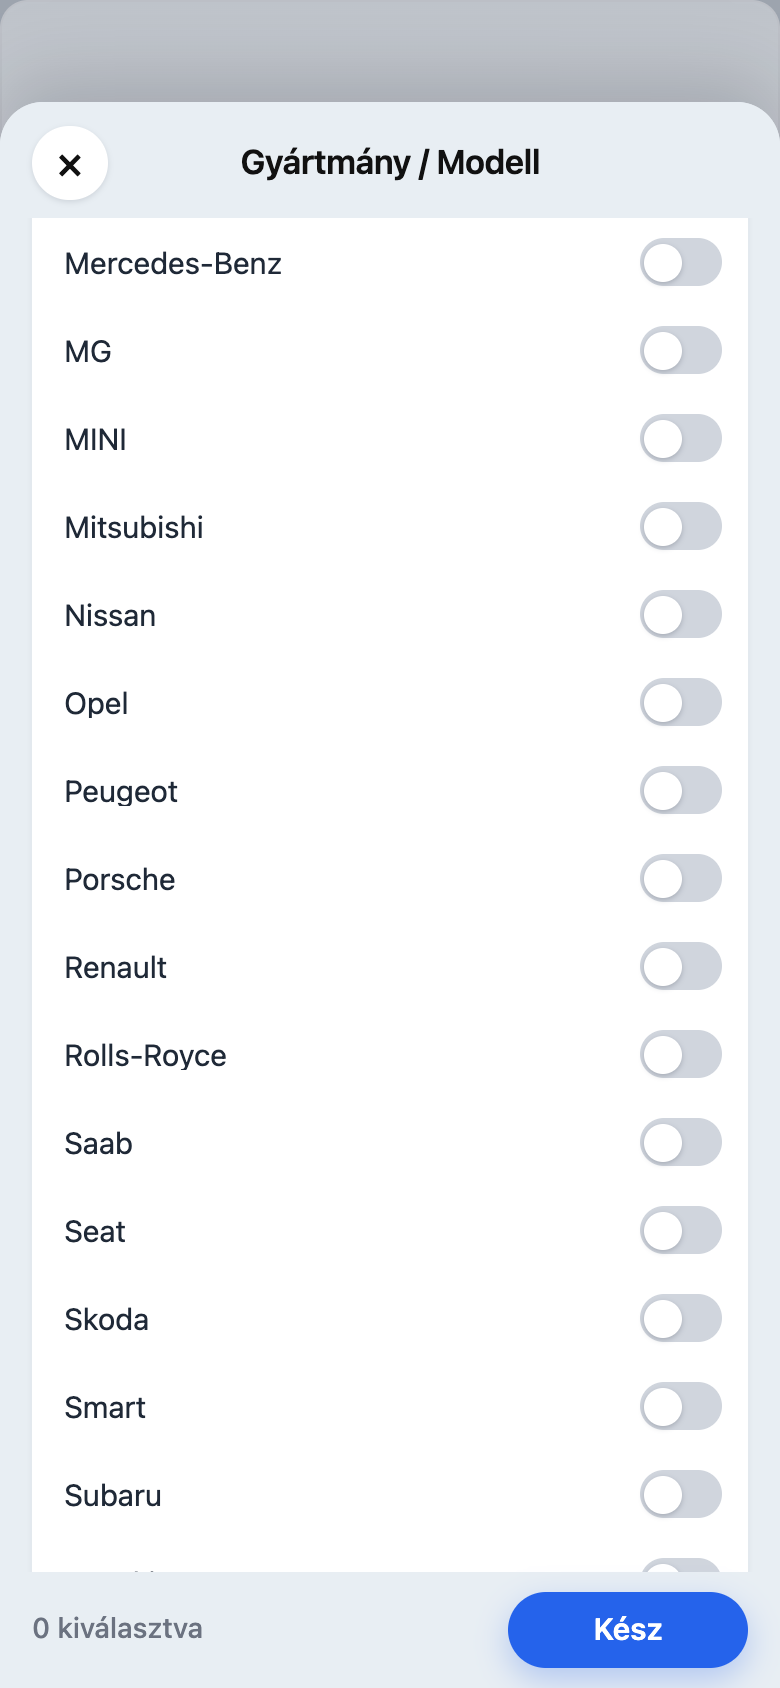
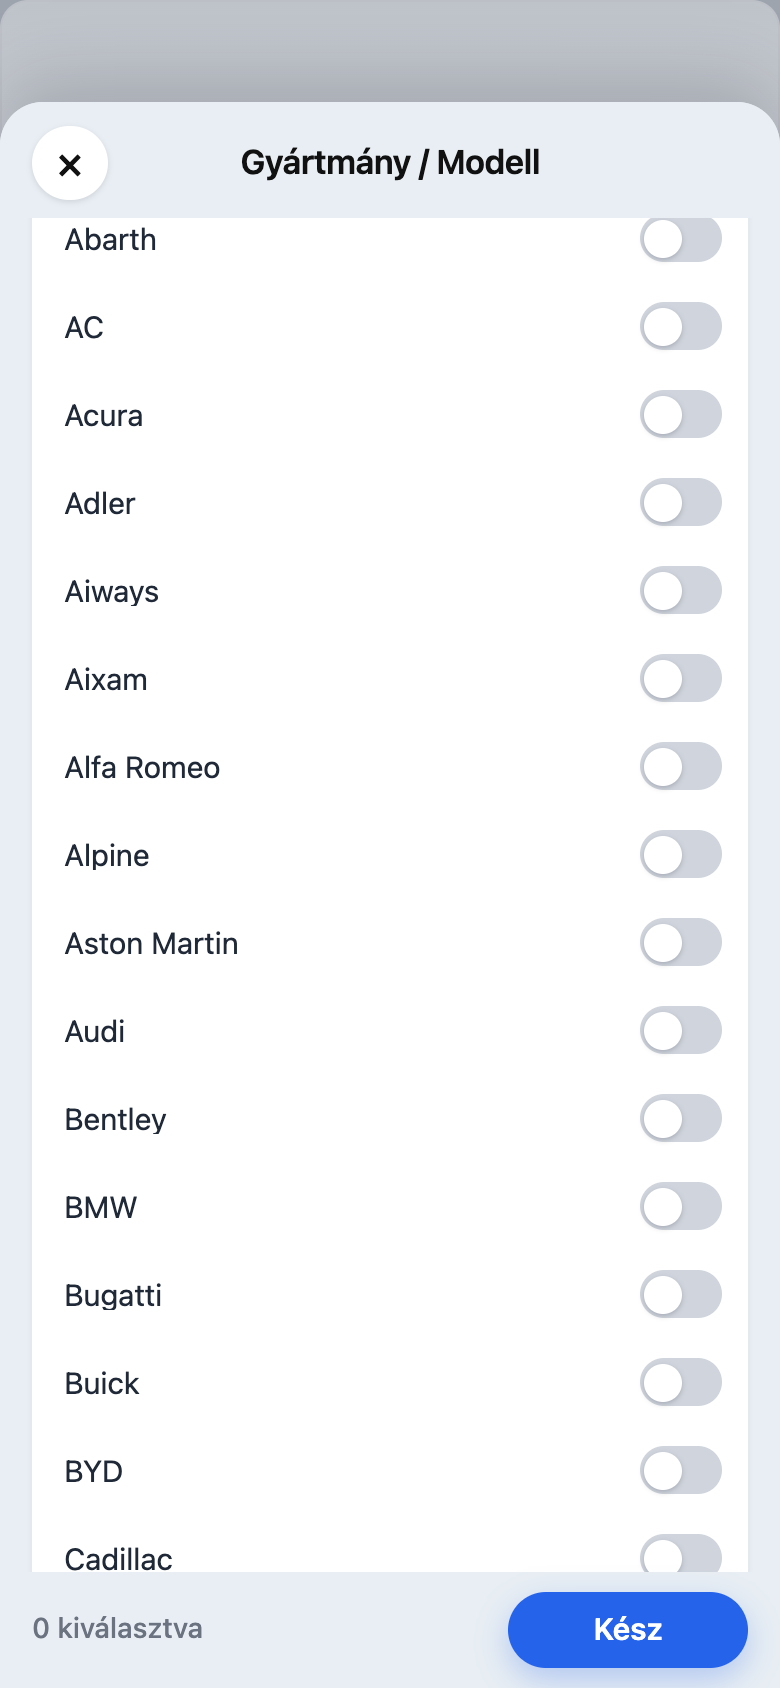
Slide brand sheet white card to the blue stage top.
Replace fixed scroll padding with a scroll-away spacer so the white list can reach under the title to the top of the blue panel.

diff --git a/public/js/ad-form-bm-pickers.js b/public/js/ad-form-bm-pickers.js
@@ -2380,7 +2380,7 @@ async function mountAdBrandModelCombined(form, catalog) {
   }
 
   const { fillWheel, setWheelValue, readWheel } = await import("./ingatlan-wheels.js?v=immoClearAll1");
-  const { openBrandModelCatalogSheet } = await import("./auto-drum-sheet.js?v=bmSheet7");
+  const { openBrandModelCatalogSheet } = await import("./auto-drum-sheet.js?v=bmSheet8");
   const { initDrumWheel, syncDrumWheelDisplay } = await import("./immo-drum-picker.js?v=immoClear1");
 
   const brands = [...(catalog?.gyartmanyok || [])].sort((a, b) =>
@@ -2543,7 +2543,7 @@ async function mountAdSelectDrum(select, {
   select.dataset.adBmDrum = "1";
 
   const { fillWheel, setWheelValue, readWheel } = await import("./ingatlan-wheels.js?v=immoClearAll1");
-  const { openStandaloneSwitchSheet, bindAutoDrumSheet } = await import("./auto-drum-sheet.js?v=bmSheet7");
+  const { openStandaloneSwitchSheet, bindAutoDrumSheet } = await import("./auto-drum-sheet.js?v=bmSheet8");
   const { initDrumWheel, syncDrumWheelDisplay } = await import("./immo-drum-picker.js?v=immoClear1");
 
   const wrap = document.createElement("div");
@@ -2762,7 +2762,7 @@ async function mountAdSplitYmDrum({
   }
 
   const { fillWheel, setWheelValue, readWheel } = await import("./ingatlan-wheels.js?v=immoClearAll1");
-  const { openAutoDrumSheet } = await import("./auto-drum-sheet.js?v=bmSheet7");
+  const { openAutoDrumSheet } = await import("./auto-drum-sheet.js?v=bmSheet8");
   const { initDrumWheel, syncDrumWheelDisplay } = await import("./immo-drum-picker.js?v=immoClear1");
 
   const yearOpts = optionsFromSelect(ev, emptyYear);
@@ -2889,7 +2889,7 @@ async function mountMuszakiDateTripleDrum(form) {
 
   const { fillWheel, setWheelValue, readWheel } = await import("./ingatlan-wheels.js?v=immoClearAll1");
   const { openAutoDrumSheet, bindAutoDrumSheet } = await import(
-    "./auto-drum-sheet.js?v=bmSheet7"
+    "./auto-drum-sheet.js?v=bmSheet8"
   );
   const { initDrumWheel, syncDrumWheelDisplay } = await import("./immo-drum-picker.js?v=immoClear1");
 

diff --git a/public/hirdetesfeladas.html b/public/hirdetesfeladas.html
@@ -158,10 +158,10 @@
     <link rel="stylesheet" href="/css/automax.css?v=automax20260720homelist" />
     <link rel="stylesheet" href="/css/site-app.css?v=navOneRow1" />
         <link rel="stylesheet" href="/css/site-desk-header.css?v=navOneRow1" />
-<link rel="stylesheet" href="/css/ingatlan-search.css?v=bmSheet7" />
-    <link rel="stylesheet" href="/css/ad-form-desk.css?v=bmSheet7" />
+<link rel="stylesheet" href="/css/ingatlan-search.css?v=bmSheet8" />
+    <link rel="stylesheet" href="/css/ad-form-desk.css?v=bmSheet8" />
     <link rel="stylesheet" href="/css/ad-form-address.css?v=addrFix1" />
-    <link rel="stylesheet" href="/css/ad-form-bm-pickers.css?v=bmSheet7" />
+    <link rel="stylesheet" href="/css/ad-form-bm-pickers.css?v=bmSheet8" />
     <link rel="stylesheet" href="/css/price-market-hint.css?v=priceHint5" />
     <link rel="stylesheet" href="/css/site-side.css?v=mwPostDesk1" />
     <link rel="stylesheet" href="/css/category-picker.css?v=mobMenuFix1" />
@@ -1096,9 +1096,9 @@
 
     <script src="/js/site-avatar-menu.js?v=avatarSync1" type="module"></script>
     <script src="/js/hirdetes-category-boot.js?v=pickerBoot4" type="module"></script>
-    <script src="/js/app.js?v=bmSheet7" type="module"></script>
+    <script src="/js/app.js?v=bmSheet8" type="module"></script>
       <script src="/js/nav-counts.js?v=bootFix2" type="module"></script>
       <script src="/js/theme.js?v=willhabenHdr1" type="module"></script>
-    <script src="/js/form-layout-apply.js?v=bmSheet7" type="module"></script>
+    <script src="/js/form-layout-apply.js?v=bmSheet8" type="module"></script>
 </body>
 </html>

diff --git a/public/css/ingatlan-search.css b/public/css/ingatlan-search.css
@@ -1644,7 +1644,7 @@ body[data-site-page="ingatlan"] .immo-schema-cell:has(.telepules-suggest:not([hi
   height: 2.35rem;
 }
 
-/* Teljes kék stage fölött görög — a fehér felcsúszik / leér a lábléc alá */
+/* Teljes kék stage fölött görög — induláskor hely a címnek, görgetve fehér a kék tetejéig */
 .auto-drum-portal--sheet .auto-drum-portal__sheet-scroll {
   position: absolute;
   inset: 0;
@@ -1658,9 +1658,17 @@ body[data-site-page="ingatlan"] .immo-schema-cell:has(.telepules-suggest:not([hi
   align-items: stretch;
   gap: 0;
   margin: 0;
-  padding: var(--sheet-head-h) 1rem 0;
+  padding: 0 1rem 0;
   box-sizing: border-box;
   background: transparent;
+}
+
+/* Görgethető hely: cím/X alatt indul a tartalom; elmegy, így a fehér felér a kék tetejére */
+.auto-drum-portal--sheet .auto-drum-portal__sheet-top-space {
+  flex: 0 0 auto;
+  height: var(--sheet-head-h);
+  width: 100%;
+  pointer-events: none;
 }
 
 .auto-drum-portal--sheet .auto-drum-portal__sheet-section {
@@ -1672,7 +1680,7 @@ body[data-site-page="ingatlan"] .immo-schema-cell:has(.telepules-suggest:not([hi
   background: transparent;
 }
 
-/* Fehér: állandó szélesség, kitölti a kéket fentről le a lábléc alá */
+/* Fehér: állandó szélesség; felcsúszhat a stage tetejéig (cím alá), le a lábléc alá */
 .auto-drum-portal--sheet .auto-drum-portal__ring--sheet,
 .auto-drum-portal--sheet .auto-drum-portal__ring--multi {
   width: 100% !important;

diff --git a/public/js/form-layout-apply.js b/public/js/form-layout-apply.js
@@ -1,7 +1,7 @@
 import { ensureIngatlanFormFields } from "./ingatlan-form-fields.js?v=immoTipusPick1";
-import { refreshAdFormBmPickers } from "./ad-form-bm-pickers.js?v=bmSheet7";
+import { refreshAdFormBmPickers } from "./ad-form-bm-pickers.js?v=bmSheet8";
 import { initTireSizes } from "./tire-sizes-ui.js?v=tireFill1";
-import { applyAdFormDesk } from "./ad-form-desk.js?v=bmSheet7";
+import { applyAdFormDesk } from "./ad-form-desk.js?v=bmSheet8";
 import { markImmoPostViewReady } from "./category-picker.js?v=pickerBoot4";
 import {
   DESK_MUSZAKI_CORE_FIELD_KEYS,
@@ -13,7 +13,7 @@ import {
   applyStep1SearchDomOrder,
   isVehicleStep1Canvas,
   stackVehicleCanvasSingleColumn,
-} from "./ad-form-desk-pinned-blocks.js?v=bmSheet7";
+} from "./ad-form-desk-pinned-blocks.js?v=bmSheet8";
 
 function cssEscape(value) {
   if (window.CSS?.escape) return window.CSS.escape(value);

diff --git a/public/js/form-core.js b/public/js/form-core.js
@@ -23,9 +23,9 @@ import {
   DEFAULT_PHOTO_OVERLAY_ID,
   renderListingPhotoOverlay,
 } from "./listing-photo-overlay.js?v=photoOverlayIcons3";
-import { refreshAdFormBmPickers, applyAdFormBmFieldValues } from "./ad-form-bm-pickers.js?v=bmSheet7";
-import { applyAdFormDesk, isAdFormDesk } from "./ad-form-desk.js?v=bmSheet7";
-import { placeElectricBlockAfterFuel } from "./ad-form-desk-pinned-blocks.js?v=bmSheet7";
+import { refreshAdFormBmPickers, applyAdFormBmFieldValues } from "./ad-form-bm-pickers.js?v=bmSheet8";
+import { applyAdFormDesk, isAdFormDesk } from "./ad-form-desk.js?v=bmSheet8";
+import { placeElectricBlockAfterFuel } from "./ad-form-desk-pinned-blocks.js?v=bmSheet8";
 import { initKmInput, parseKmDigits, setKmInputValue } from "./km-input.js?v=kmFmt1";
 import {
   EV_FUEL_FIELD_IDS,

diff --git a/public/js/auto-drum-sheet.js b/public/js/auto-drum-sheet.js
@@ -734,6 +734,7 @@ export function openBrandModelCatalogSheet(brandWheel, trigger, wrap, emptyLabel
         <span class="auto-drum-portal__sheet-head-spacer" aria-hidden="true"></span>
       </header>
       <div class="auto-drum-portal__sheet-scroll" data-sheet-scroll tabindex="-1">
+        <div class="auto-drum-portal__sheet-top-space" aria-hidden="true"></div>
         <p class="auto-drum-portal__sheet-section" data-sheet-section>Népszerű gyártmányok</p>
         <div class="immo-drum-wheel-ring auto-drum-portal__ring auto-drum-portal__ring--multi auto-drum-portal__ring--sheet">
           <div class="auto-drum-portal__toolbar auto-drum-portal__toolbar--sheet">

diff --git a/public/js/app.js b/public/js/app.js
@@ -11,7 +11,7 @@ import { applyImportedVehicleToSelects } from "./vehicle-catalog-client.js?v=imp
 import { initTireSizes } from "./tire-sizes-ui.js";
 import { initPhoneLanguages } from "./phone-lang-ui.js";
 import { initCategoryPicker } from "./category-picker.js?v=pickerBoot4";
-import { applyAdFormDesk, clearAdFormEditBoot, isDeskVehicleSubtype } from "./ad-form-desk.js?v=bmSheet7";
+import { applyAdFormDesk, clearAdFormEditBoot, isDeskVehicleSubtype } from "./ad-form-desk.js?v=bmSheet8";
 import {
   requireAuthForPage,
   getAuthUser,

diff --git a/public/js/ad-form-desk.js b/public/js/ad-form-desk.js
@@ -4,7 +4,7 @@ import {
   applyStep1SearchDomOrder,
   isVehicleStep1Canvas,
   stackVehicleCanvasSingleColumn,
-} from "./ad-form-desk-pinned-blocks.js?v=bmSheet7";
+} from "./ad-form-desk-pinned-blocks.js?v=bmSheet8";
 
 const DESK_MQ = "(min-width: 901px)";
 
